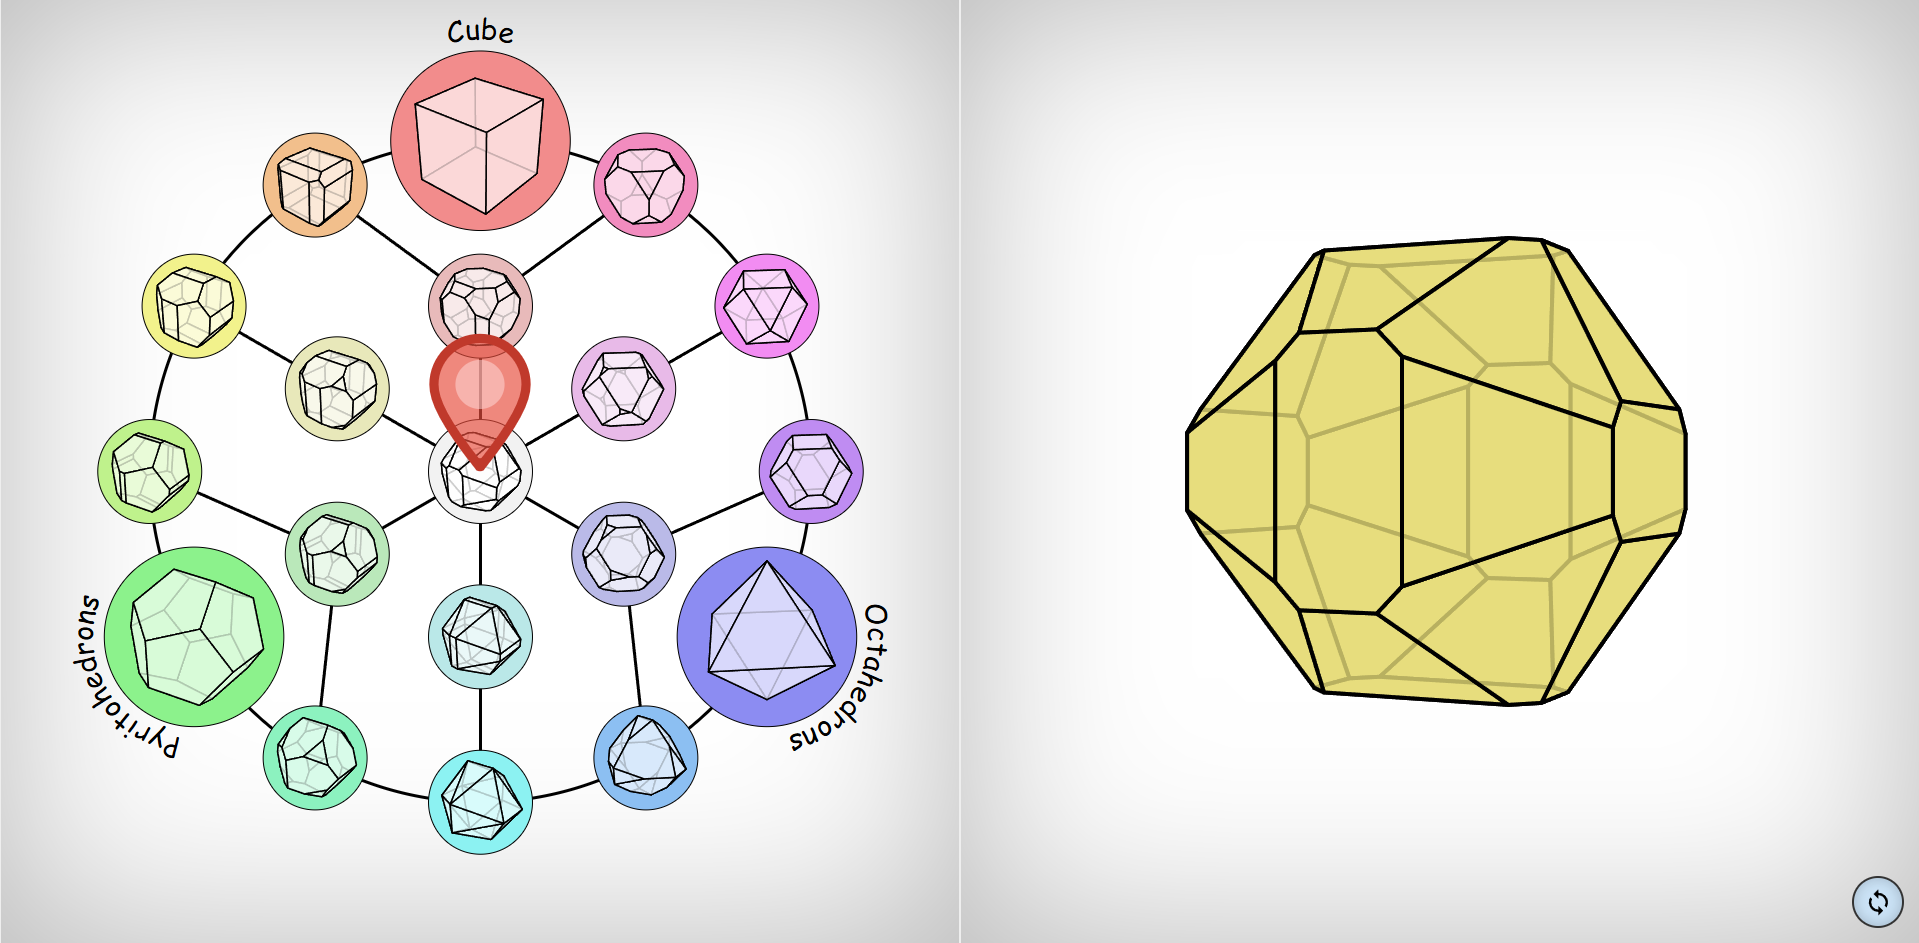
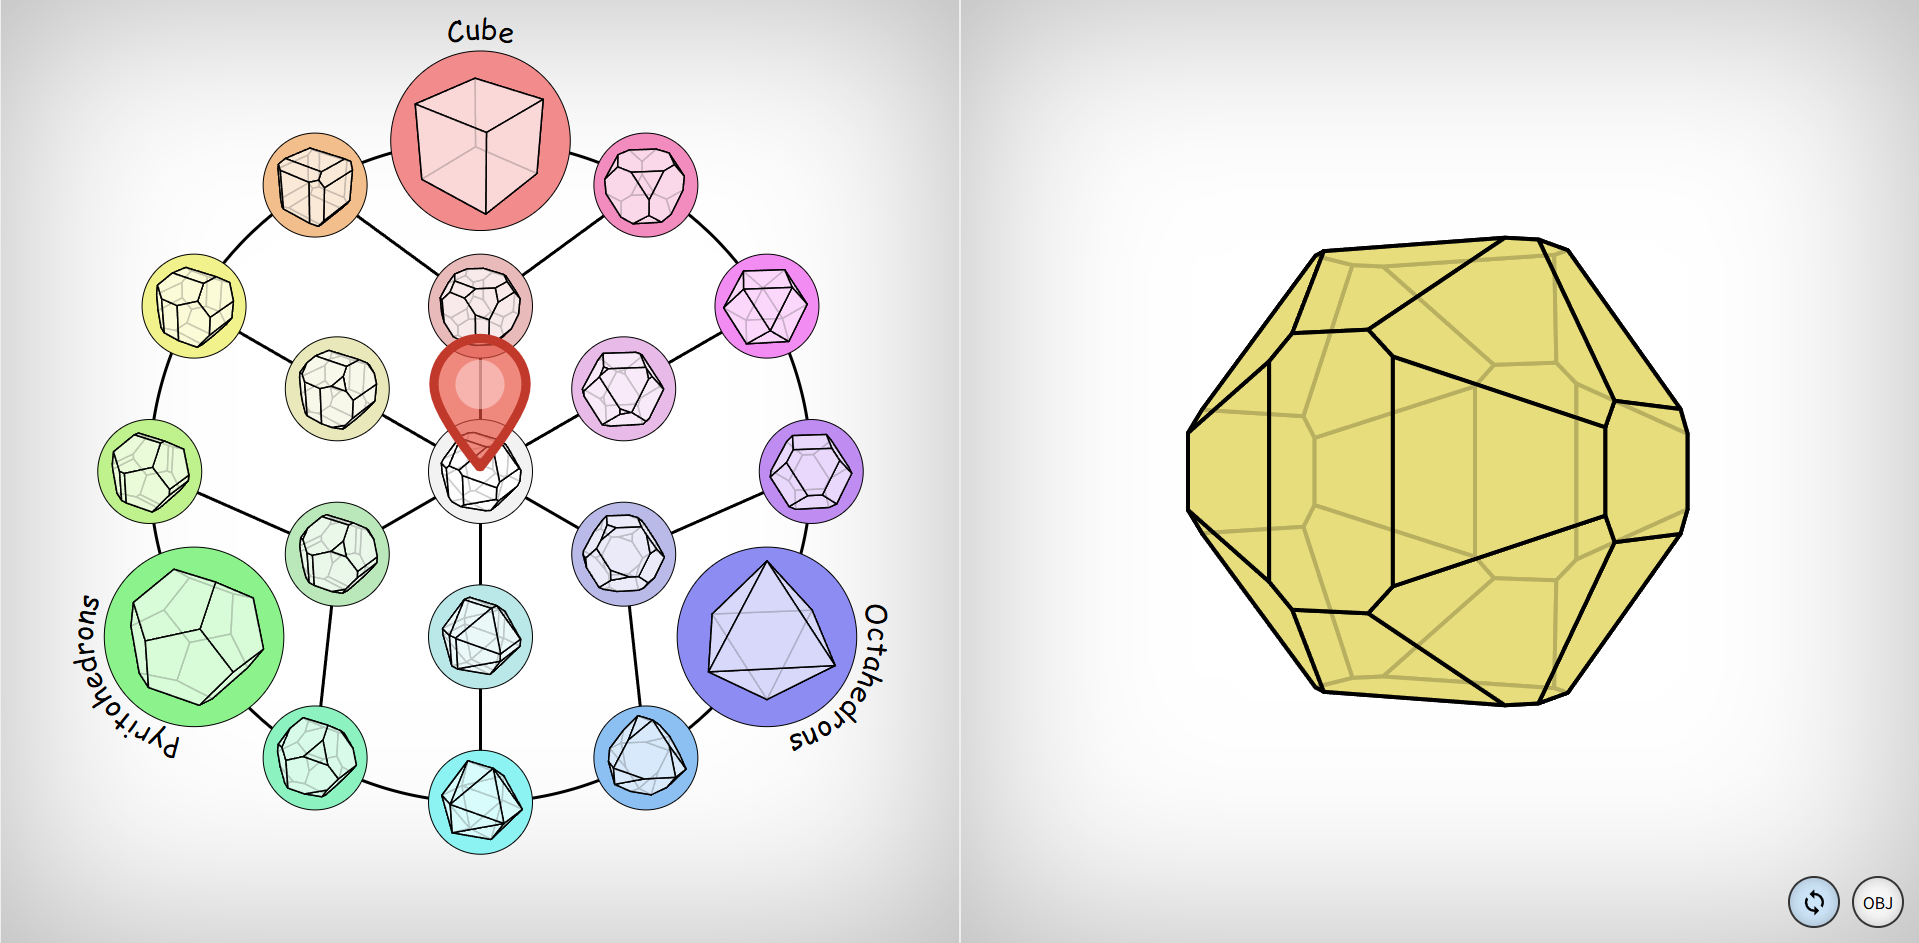
feat: Save obj files

Changed region(s): [[0.6149, 0.246, 0.8916, 0.7381], [0.9224, 0.9226, 1.0, 0.9841], [0.7686, 0.7381, 0.7994, 0.7688]]

diff --git a/index.html b/index.html
@@ -92,11 +92,9 @@
             /* 将定位中心移到尖端 */
         }
 
-        /* 自转控制按钮样式 */
-        .rotate-button {
+        /* 按钮 */
+        .button {
             position: absolute;
-            bottom: 1em;
-            right: 1em;
             width: 3em;
             aspect-ratio: 1 / 1;
             border-radius: 50%;
@@ -111,15 +109,21 @@
             transition: all 0.2s ease;
         }
 
-        .rotate-button:hover {
+        .button:hover {
             transform: scale(1.05);
         }
 
-        .rotate-button.pressed {
+        .button.pressed {
             background: rgba(200, 230, 255, 0.8);
         }
 
-        .rotate-button svg {
+        /* 按下的瞬间变成高亮色 */
+        #save-button:active {
+            background: rgba(200, 230, 255, 0.8);
+            transition: background-color 0s ease;
+        }
+
+        .button svg {
             width: 60%;
             height: 60%;
         }
@@ -135,12 +139,18 @@
         </div>
         <div class="split-part part-2">
             <svg id="scene-svg" xmlns="http://www.w3.org/2000/svg"></svg>
-            <!-- 添加自转控制按钮 -->
-            <div class="rotate-button pressed" id="rotate-button">
+
+            <!-- 自转控制按钮 -->
+            <div class="button pressed" id="rotate-button" style="bottom: 1em; right: 5em;">
                 <svg viewBox="0 0 24 24" xmlns="http://www.w3.org/2000/svg">
                     <path
                         d="M12 4V1L8 5l4 4V6c3.31 0 6 2.69 6 6 0 1.01-.25 1.97-.7 2.8l1.46 1.46A7.93 7.93 0 0020 12c0-4.42-3.58-8-8-8zm0 14c-3.31 0-6-2.69-6-6 0-1.01.25-1.97.7-2.8L5.24 7.74A7.93 7.93 0 004 12c0 4.42 3.58 8 8 8v3l4-4-4-4v3z" />
                 </svg>
+            </div>
+
+            <!-- 保存模型按钮 -->
+            <div class="button" id="save-button" style="bottom: 1em; right: 1em;">
+                OBJ
             </div>
         </div>
     </div>
@@ -426,22 +436,15 @@
     <!-- 3d 与交互部分代码 -->
     <script>
         function getPolygon(distances, color) {
+            // 构造平面
             let planes = [];
             Object.keys(distances).forEach(key => {
                 planes = planes.concat(scaleVectors(planeNormals[key], distances[key]));
             });
             planes = planes.map(point => ({ normal: point, point }));
 
-            let { vertices, faces } = calculateConvexPolyhedron(planes);
-            faces = faces.map(face => {
-                return {
-                    points: face.map(i => ({ x: vertices[i][0], y: vertices[i][1], z: vertices[i][2] })),
-                    color  // 晶体颜色
-                };
-            });
-            faces.forEach(compute_face_center);  // 计算每个面的中心并将结果记录在面数据字典中
-
-            return faces;
+            // 计算平面包围的多面体
+            return calculateConvexPolyhedron(planes);
         }
 
         // 绕X轴旋转点 (phi)
@@ -585,7 +588,7 @@
             return { camera, render, updateFaces };
         }
 
-        const faces = coordinatesToGeometry(0, 0, 'rgba(230, 220, 120, 0.8)');  // 初始几何体
+        const { faces, rawGeometry } = coordinatesToGeometry(0, 0, 'rgba(230, 220, 120, 0.8)');  // 初始几何体
         const { camera, render, updateFaces } = generateScene(document.getElementById('scene-svg'), faces, true, 3, 35, 4, 0, 0);
 
         // 初始渲染
@@ -646,13 +649,21 @@
         ) {
             const parameters = coordinatesToParameters(angle, r);
 
-            var faces = getPolygon({  // 各晶面指数对应的面到原点的距离
+            var { vertices, faces } = getPolygon({  // 各晶面指数对应的面到原点的距离
                 '100': parameters[0],  // 立方体
                 '111': parameters[1],  // 八面体
                 '210': parameters[2]  // 五角十二面体
             }, color);
 
-            return faces;
+            const rawGeometry = { vertices, faces };
+
+            faces = faces.map(face => ({
+                points: face.map(i => ({ x: vertices[i][0], y: vertices[i][1], z: vertices[i][2] })),
+                color  // 晶体颜色
+            }));
+            faces.forEach(compute_face_center);  // 计算每个面的中心并将结果记录在面数据字典中
+
+            return { faces, rawGeometry };
         }
 
         function addArcText(svg, textContent, options) {
@@ -830,7 +841,7 @@
                 if (initializing) {
                     constainer.appendChild(graphSvgs[i]);
 
-                    const faces = coordinatesToGeometry(circles[i].h, circles[i].s, circles[i].colorPolygon);
+                    const { faces, rawGeometry } = coordinatesToGeometry(circles[i].h, circles[i].s, circles[i].colorPolygon);
 
                     // 半径均匀化
                     let rSum = 0;
@@ -960,8 +971,7 @@
             pin.style.top = `${y}px`;
 
             const angle = Math.atan2(yRelative, xRelative);
-            const faces = coordinatesToGeometry(angle / Math.PI / 2 + 0.25, rRelative, 'rgba(230, 220, 120, 0.8)');
-            // console.log(angle / Math.PI / 2 + 0.25, rRelative);
+            const { faces, rawGeometry } = coordinatesToGeometry(angle / Math.PI / 2 + 0.25, rRelative, 'rgba(230, 220, 120, 0.8)');
             updateFaces(faces);
             render();
         }
@@ -984,6 +994,56 @@
         graphPanel.addEventListener('touchstart', movePin);
         // 移动设备支持触摸移动
         graphPanel.addEventListener('touchmove', movePin);
+    </script>
+
+    <!-- 保存为 OBJ 文件 -->
+    <script>
+        function generateOBJ(vertices, faces) {
+            let objContent = "";
+
+            // 写入顶点
+            vertices.forEach(v => {
+                objContent += `v ${v[0]} ${v[1]} ${v[2]}\n`;
+            });
+
+            // 写入面（支持任意边数的多边形）（注意顶点索引是从1开始的）
+            faces.forEach(f => {
+                objContent += `f ${f.map(i => i + 1).join(" ")}\n`;
+            });
+
+            return objContent;
+        }
+
+        function saveOBJToFile(objContent, filename) {
+            // 创建Blob对象
+            const blob = new Blob([objContent], { type: 'text/plain' });
+
+            // 创建下载链接
+            const link = document.createElement('a');
+            link.href = URL.createObjectURL(blob);
+            link.download = filename;
+
+            // 触发点击下载
+            document.body.appendChild(link);
+            link.click();
+
+            // 清理
+            setTimeout(() => {
+                document.body.removeChild(link);
+                URL.revokeObjectURL(link.href);
+            }, 100);
+        }
+
+        // 按钮控制
+        const saveButton = document.getElementById('save-button');
+        saveButton.addEventListener('click', function () {
+            const rRelative = (pinLocationRelative.x ** 2 + pinLocationRelative.y ** 2) ** 0.5;;
+            const angle = Math.atan2(pinLocationRelative.y, pinLocationRelative.x);
+            const { faces, rawGeometry } = coordinatesToGeometry(angle / Math.PI / 2 + 0.25, rRelative, '');
+            const objString = generateOBJ(rawGeometry.vertices, rawGeometry.faces);
+            saveOBJToFile(objString, 'pyrite_crystal.obj');  // 下载文件
+        });
+
     </script>
 
     <!-- 布局部分代码 -->
